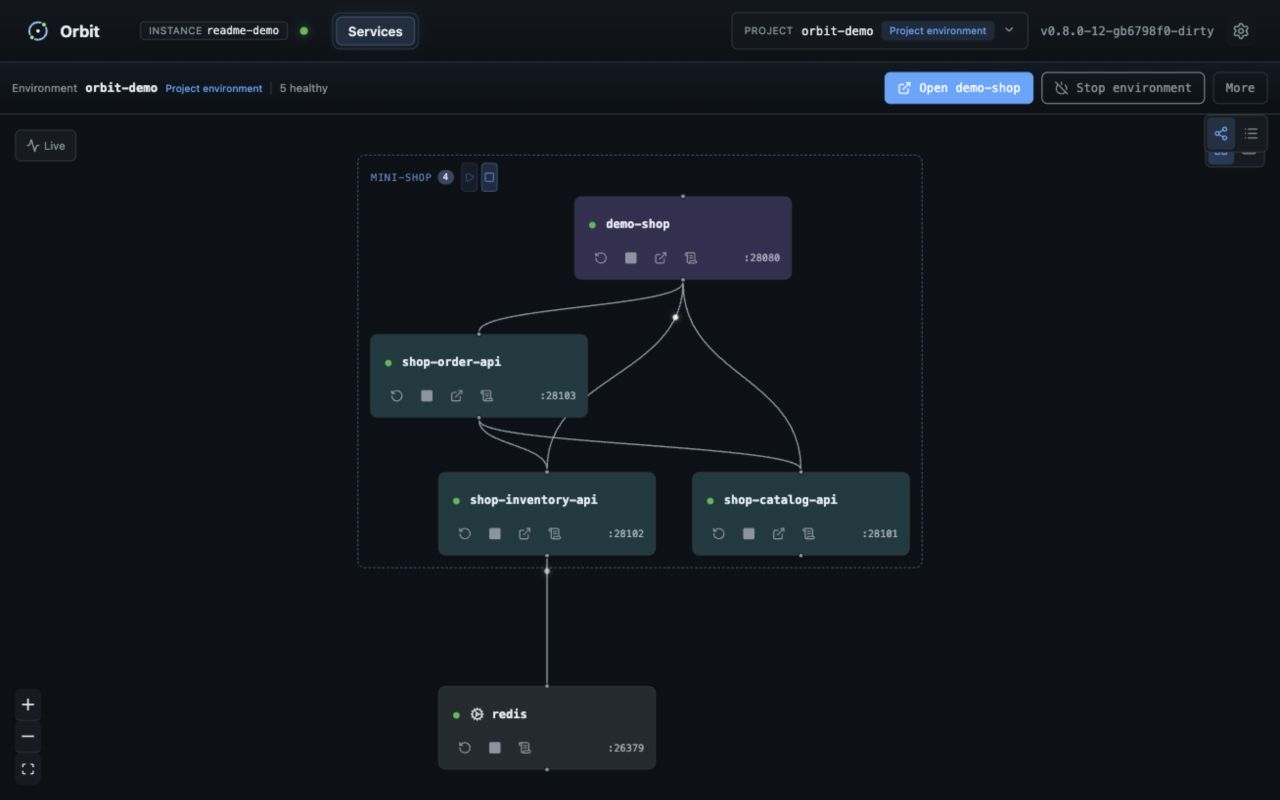
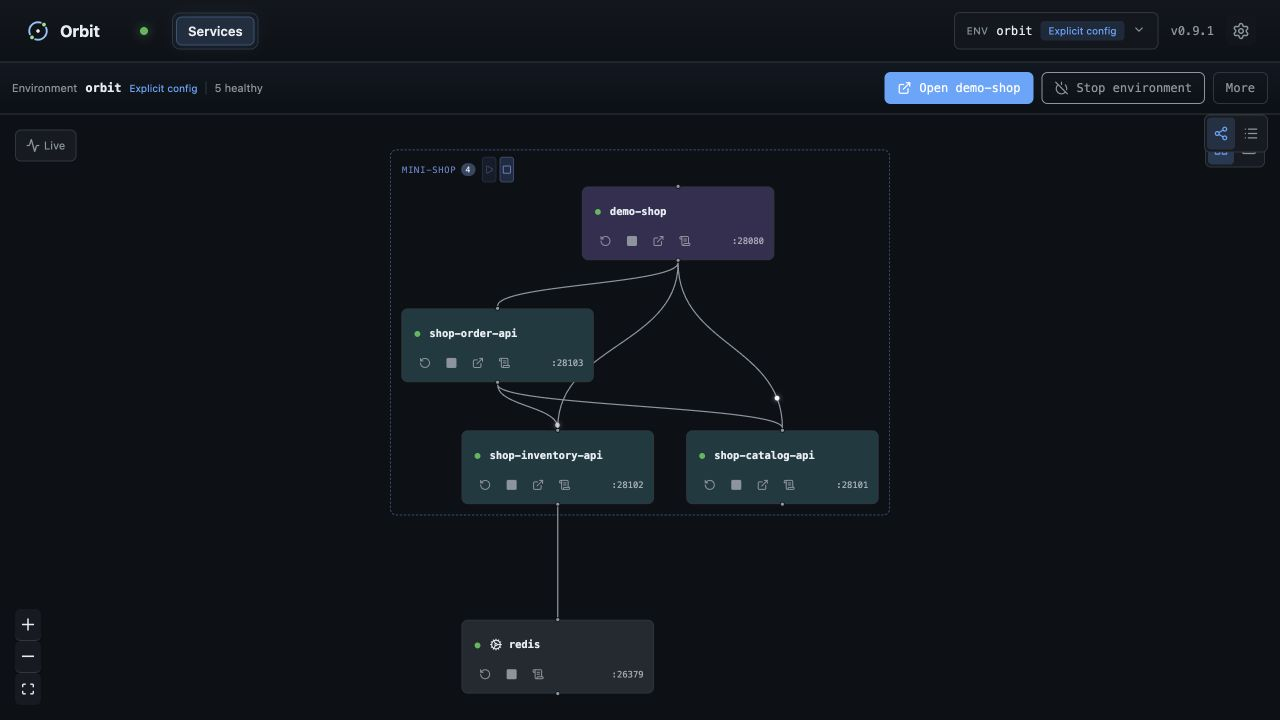
docs(readme): prioritize the first-run experience

diff --git a/README.zh-TW.md b/README.zh-TW.md
@@ -1,31 +1,38 @@
 # <img src="ui/public/orbit-logo-badge.svg" width="32" height="32" alt=""> Orbit
 
-用一份宣告式環境設定，同時執行 host processes 與 containers——服務本機開發，
-也作為 E2E 測試的基底。
+把專案需要的所有服務——host processes 與 containers——放進同一個可觀測的
+本機環境。
 
-[安裝](docs/development.zh-TW.md) · [設定](docs/configuration.zh-TW.md) ·
-[Environment sources](docs/environment-sources.zh-TW.md) · [架構](docs/architecture.zh-TW.md) · [Agent CLI](docs/agent-cli.zh-TW.md) ·
-[English](README.md)
+[試玩 demo](#試玩-orbit) · [在你的專案使用 Orbit](docs/local-first.zh-TW.md) ·
+[安裝](docs/development.zh-TW.md) · [文件](#文件) · [English](README.md)
 
-> **1.0 前預覽版：** Orbit 已開放給 early adopters 與 contributors，但 1.0
-> UX 與相容性契約仍在打磨中；`v1.0.0` 前可能有 breaking changes。
+![Orbit dashboard，顯示健康的 mini-shop dependency graph](docs/assets/orbit-demo-dashboard.jpg)
 
-Orbit 會依 dependency 順序啟動服務、檢查健康狀態、串流 logs，並透過常駐
-daemon 維持環境。人透過 CLI 與 dashboard 操作；coding agents 透過穩定的
-`orbit.cli.v1` JSON contract 操作。同一個環境既服務日常開發，也能作為 E2E
-測試套件的基底——在你的機器或 CI runner 上。
+Orbit 把一份 `orbit.yaml` 變成可重現的 stack，供本機開發、CI 與 coding agents
+共同使用。
 
-- **混合 runtimes：** 在同一張 dependency graph 管理 host processes 與
-  containers。
-- **共享 environments：** 從任何 Git repository 同步有版本的 YAML。
-- **Agent-first 控制：** coding agents 透過有版本的 `orbit.cli.v1` JSON
-  contract 驅動完整生命週期——穩定的 error codes 與可執行的建議動作。
-- **E2E 基底：** 測試套件驗證共用環境，而不是自己重建一份——見
-  [在 E2E 測試底下使用 Orbit](docs/e2e-testing.zh-TW.md)。
-- **本機診斷：** CLI 與 dashboard 都能查看 health、logs、history、traces
-  與設定。
+- **一起啟動：** containers 與 host processes 會依 dependency 順序啟動。
+- **知道什麼真的 ready：** dashboard 與 CLI 集中顯示 health、logs、ports、
+  traces 與失敗原因。
+- **到哪裡都跑同一套：** developers、test suites 與 agents 共用一份有版本的
+  environment definition。
 
-這些選擇背後的設計取捨請見[為什麼是 Orbit](docs/why-orbit.zh-TW.md)。
+## 試玩 Orbit
+
+Demo 需要 Git、Docker、Python 3，以及
+[已安裝的 Orbit CLI](docs/development.zh-TW.md)：
+
+```bash
+git clone https://github.com/iml885203/orbit-demo.git
+cd orbit-demo
+orbit up
+orbit status
+orbit open demo-shop
+```
+
+[Orbit demo](https://github.com/iml885203/orbit-demo) 是一個小型 storefront，
+包含三個 host APIs、SQLite databases，以及 container 內的 Redis。執行一次
+checkout 就能看到 request 穿過整張 graph；完成後用 `orbit down` 停止環境。
 
 ## 一份檔案描述整個環境
 
@@ -115,29 +122,6 @@ irm https://raw.githubusercontent.com/iml885203/orbit/main/scripts/install.ps1 |
 runtimes 或 dependencies；`orbit doctor` 會回報所選 environment 需要什麼與
 明確的修復方式。升級、rollback、移除與平台細節請見
 [安裝與開發](docs/development.zh-TW.md)。
-
-## 試玩 demo
-
-公開 demo 需要 Git、Docker 與 Python 3：
-
-```bash
-git clone https://github.com/iml885203/orbit-demo.git
-cd orbit-demo
-orbit up
-orbit status
-orbit open demo-shop
-```
-
-![Orbit demo dashboard，顯示 mini-shop dependency graph](docs/assets/orbit-demo-dashboard.jpg)
-
-[Orbit demo](https://github.com/iml885203/orbit-demo) 是一個獨立的
-mini-shop——一個 storefront、三個在 host 上執行並各自使用 SQLite 的
-Python API，以及 container 內的 Redis——由單一 project-root `orbit.yaml`
-驅動，與 Orbit 在真實專案的用法完全一致。在 storefront 中，**Run checkout**
-展示同一個 request 穿過 catalog、inventory、Redis 與 orders；**Try 99 items**
-展示失敗路徑不會建立 order、庫存也維持不變。用 `orbit down` 停止全部資源。
-同一個應用程式也能不透過 Orbit 執行（`./scripts/run-local.sh`），
-清楚呈現 Orbit 幫你省下的是哪些事。
 
 ## 搭配 AI agent
 

diff --git a/README.md b/README.md
@@ -1,35 +1,40 @@
 # <img src="ui/public/orbit-logo-badge.svg" width="32" height="32" alt=""> Orbit
 
-Run a mixed stack—host processes and containers—from one declarative
-environment, for local development and E2E testing.
+Run every service your project needs—host processes and containers—as one
+observable local environment.
 
-[Install](docs/development.md) · [Configuration](docs/configuration.md) ·
-[Environment sources](docs/environment-sources.md) · [Architecture](docs/architecture.md) · [Agent CLI](docs/agent-cli.md) ·
+[Try the demo](#try-orbit) · [Use Orbit with your project](docs/local-first.md) ·
+[Install](docs/development.md) · [Documentation](#documentation) ·
 [繁體中文](README.zh-TW.md)
 
-> **Pre-1.0 preview:** Orbit is open for early adopters and contributors while
-> the 1.0 UX and compatibility contracts are still being finalized. Expect
-> breaking changes before `v1.0.0`.
+![Orbit dashboard showing a healthy mini-shop dependency graph](docs/assets/orbit-demo-dashboard.jpg)
 
-Orbit starts services in dependency order, checks health, streams logs, and
-keeps the environment alive behind a resident daemon. People drive it from the
-CLI and dashboard; coding agents drive it through the stable `orbit.cli.v1`
-JSON contract. The same environment serves daily development and acts as the
-substrate under an E2E suite—on your machine or a CI runner.
+Orbit turns one `orbit.yaml` into a repeatable stack for local development,
+CI, and coding agents.
 
-- **Mixed runtimes:** coordinate host processes and containers in one graph.
-- **Shared environments:** sync versioned YAML from any Git repository.
-- **Agent-first control:** coding agents drive the full lifecycle through the
-  versioned `orbit.cli.v1` JSON contract—stable error codes and executable
-  recommended actions.
-- **E2E substrate:** a test suite verifies the shared environment instead of
-  provisioning its own copy—see
-  [Using Orbit under an E2E test suite](docs/e2e-testing.md).
-- **Local diagnostics:** health, logs, history, traces, and configuration are
-  visible from the CLI and dashboard.
+- **Start together:** dependencies come up in order across containers and host
+  processes.
+- **Know what is ready:** health, logs, ports, traces, and failures are visible
+  from the dashboard and CLI.
+- **Run the same stack everywhere:** developers, test suites, and agents share
+  one versioned environment definition.
 
-See [Why Orbit](docs/why-orbit.md) for the design trade-offs behind these
-choices.
+## Try Orbit
+
+The demo needs Git, Docker, Python 3, and an
+[installed Orbit CLI](docs/development.md):
+
+```bash
+git clone https://github.com/iml885203/orbit-demo.git
+cd orbit-demo
+orbit up
+orbit status
+orbit open demo-shop
+```
+
+The [Orbit demo](https://github.com/iml885203/orbit-demo) is a small storefront
+with three host APIs, SQLite databases, and Redis in a container. Run a checkout
+to see one request cross the whole graph, then use `orbit down` to stop it.
 
 ## One file describes the environment
 
@@ -124,30 +129,6 @@ own CLI—never a project's runtimes or dependencies; `orbit doctor` reports
 what the selected environment expects and the specific remedy. Upgrade,
 rollback, uninstall, and platform details are in
 [Installation and development](docs/development.md).
-
-## Try the demo
-
-The public demo needs Git, Docker, and Python 3:
-
-```bash
-git clone https://github.com/iml885203/orbit-demo.git
-cd orbit-demo
-orbit up
-orbit status
-orbit open demo-shop
-```
-
-![Orbit demo dashboard showing the mini-shop dependency graph](docs/assets/orbit-demo-dashboard.jpg)
-
-The [Orbit demo](https://github.com/iml885203/orbit-demo) is a standalone
-mini-shop — a storefront, three Python APIs with SQLite databases on the
-host, and Redis in a container — driven by one project-root `orbit.yaml`,
-exactly how Orbit works in a real project. In the storefront, **Run
-checkout** shows one request crossing catalog, inventory, Redis, and orders;
-**Try 99 items** shows the failure path commit no order and leave stock
-unchanged. Stop everything with `orbit down`. The same application also runs
-without Orbit (`./scripts/run-local.sh`), which makes visible exactly what
-Orbit takes off your hands.
 
 ## Using Orbit with an AI agent
 
